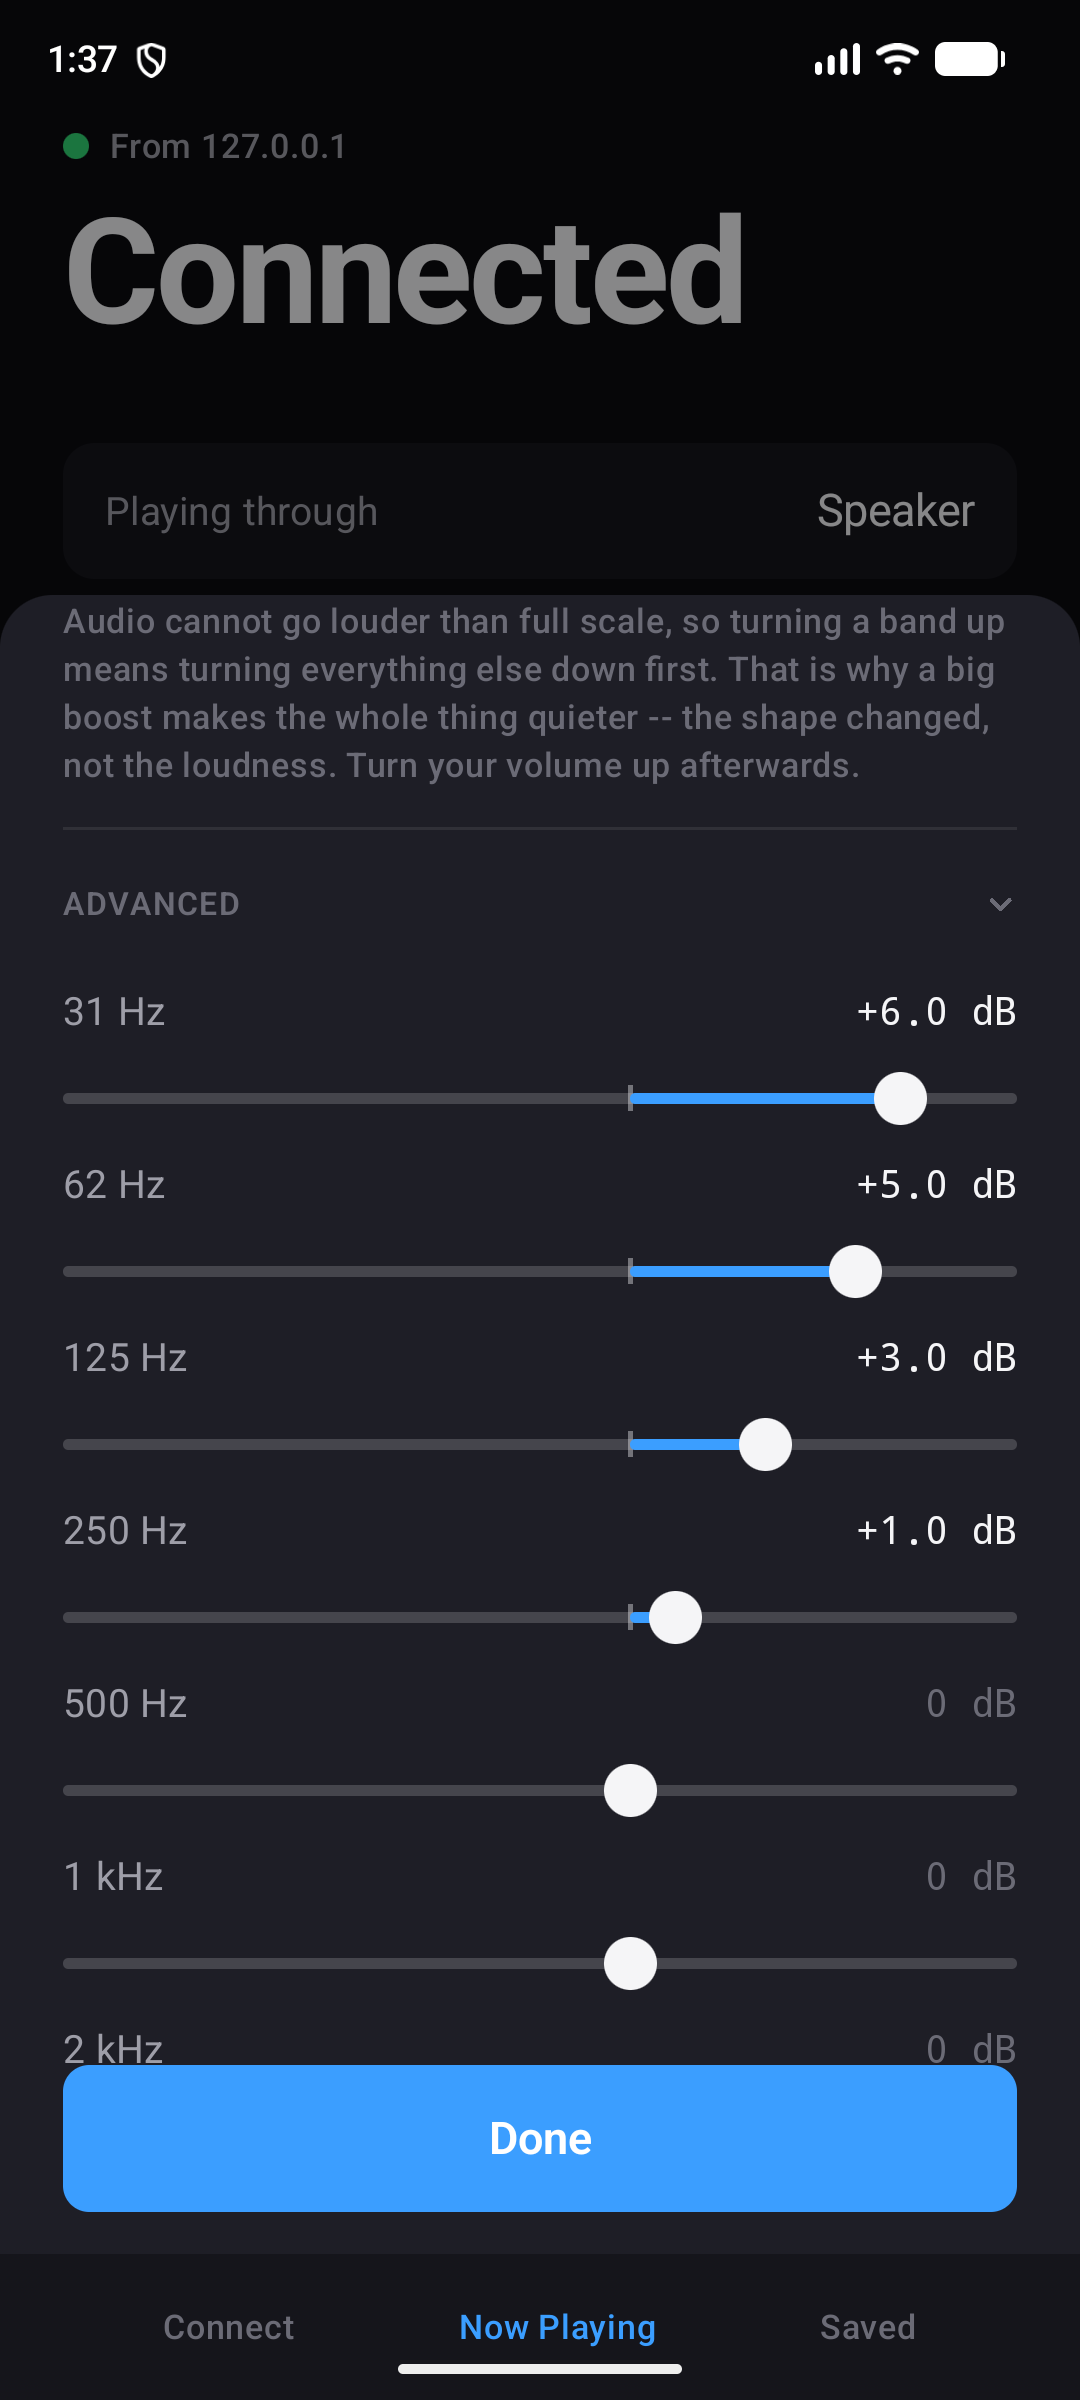
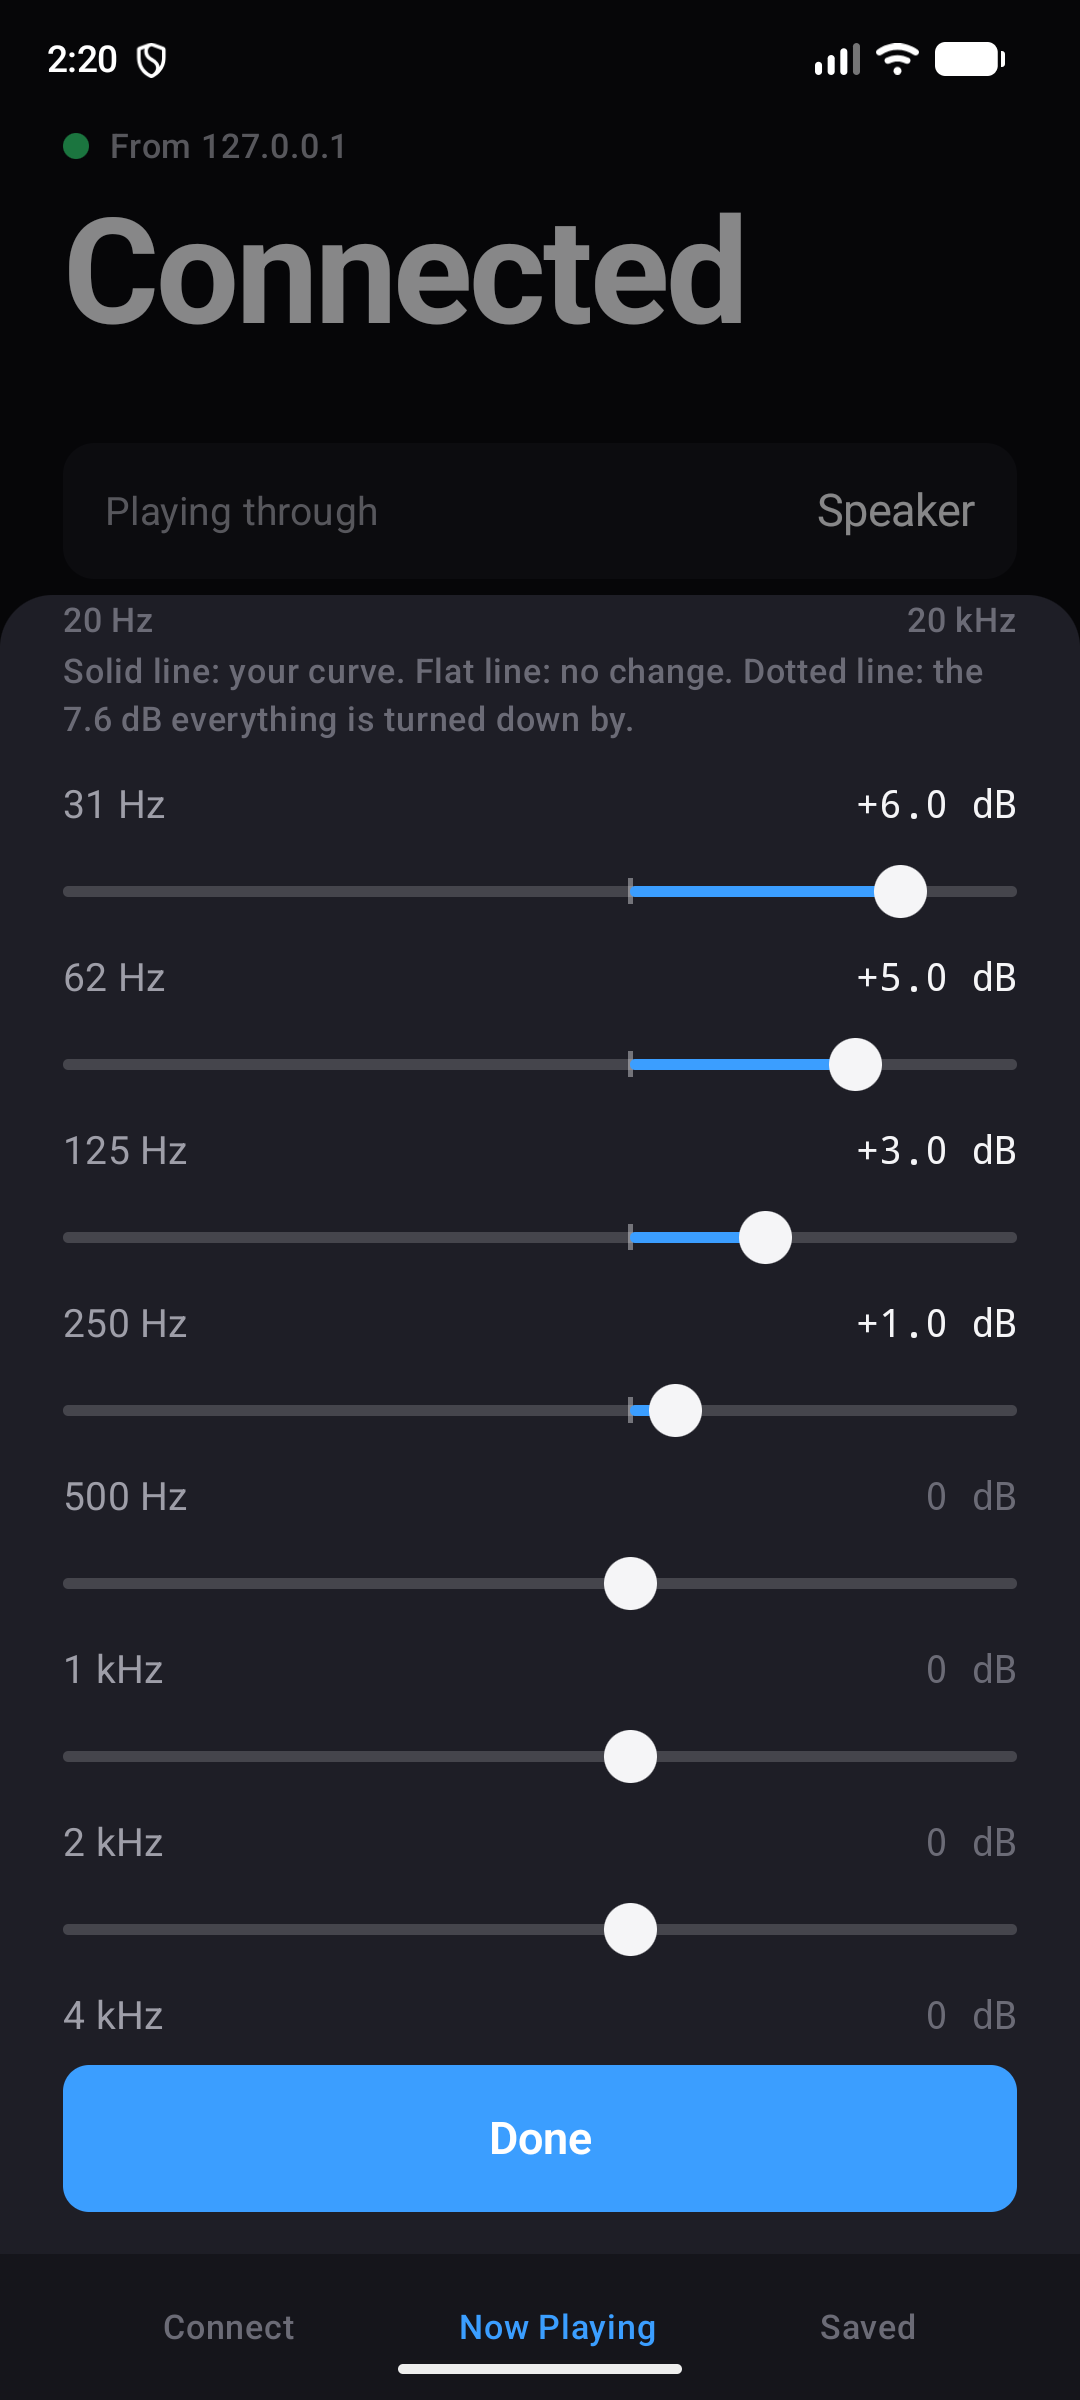
Phase 2a (b): live frequency-response graph
The combined response of all ten bands, drawn in Advanced above the sliders,
from the same FrequencyResponse scan that computes the preamp and the loudness
match. No FFT and no analysis of the audio: this draws what the filters are
set to do, not what the music is doing, and those are different claims.

ONE MAGNITUDE IMPLEMENTATION, THREE READERS. peakGainDb, weightedGainDb and
the new curveDb now all go through a single private `scan` that builds the
coefficients and walks the log-spaced grid. Before this there were two copies
of that loop and the graph would have made a third. Three copies eventually
disagree, and a graph that disagrees with the preamp is invisible until
somebody's ears find it. The refactor is covered by the existing 91 tests
passing unchanged, which is the evidence it is equivalent.

What is drawn: the curve in accent, a solid baseline at 0 dB, three unlabelled
decade gridlines to say the axis is logarithmic, and a dashed warn-coloured
line at the preamp. That last one matters -- without it the graph shows a
curve rising confidently above zero while the thing you actually hear is that
whole shape pulled down below it, which is the exact misunderstanding the
headroom note exists to prevent.

ACCESSIBILITY. A Canvas is an empty rectangle to a screen reader, so the graph
carries a description of the SHAPE rather than ten numbers read aloud:
"Response graph: boosted at 31, 62 and 125 hertz, most at 31 hertz by 6.0
[…]

Changed region(s): [[0.0611, 0.25, 0.9472, 0.875], [0.0917, 0.0, 0.1222, 0.0312], [0.0306, 0.0, 0.0611, 0.0312]]

diff --git a/AndroidReceiver/app/src/main/java/com/wiredtooth/receiver/ui/SoundSheet.kt b/AndroidReceiver/app/src/main/java/com/wiredtooth/receiver/ui/SoundSheet.kt
@@ -1,6 +1,16 @@
 package com.wiredtooth.receiver.ui
 
 import androidx.compose.animation.core.animateFloatAsState
+import androidx.compose.foundation.Canvas
+import androidx.compose.ui.geometry.Offset
+import androidx.compose.ui.graphics.Path
+import androidx.compose.ui.graphics.PathEffect
+import androidx.compose.ui.graphics.StrokeCap
+import androidx.compose.ui.graphics.StrokeJoin
+import androidx.compose.ui.graphics.drawscope.Stroke
+import com.wiredtooth.receiver.dsp.EqBand
+import com.wiredtooth.receiver.dsp.FrequencyResponse
+import kotlin.math.ln
 import androidx.compose.foundation.background
 import androidx.compose.foundation.gestures.detectTapGestures
 import androidx.compose.foundation.layout.Arrangement
@@ -341,7 +351,13 @@ fun SoundSheet(
                     )
 
                     if (advanced) {
-                        Spacer(Modifier.height(Space.s1))
+                        Spacer(Modifier.height(Space.s2))
+                        CurveGraph(
+                            bands = EqSettings.fromGains(state.gains()),
+                            preampDb = preampDb,
+                            sampleRate = sampleRate,
+                        )
+                        Spacer(Modifier.height(Space.s2))
                         for (i in 0 until EqSettings.BAND_COUNT) {
                             val hz = EqSettings.CENTRES_HZ[i]
                             DbSlider(
@@ -449,6 +465,184 @@ fun SoundSheet(
             }
         }
     }
+}
+
+/**
+ * THE CURVE
+ *
+ * The combined response of all ten bands, drawn from the same
+ * [FrequencyResponse] scan that computes the preamp and the loudness match.
+ * One magnitude implementation, three readers -- which is what guarantees the
+ * line on screen is the filter the audio thread is running, and not a second
+ * opinion free to drift away from it unnoticed.
+ *
+ * No FFT, and no analysis of the audio. This draws what the filters are set
+ * to do, not what the music is doing, and those are different claims.
+ *
+ * The faint dashed line is where the preamp sits. Without it the graph would
+ * show a curve rising confidently above zero while the thing you actually
+ * hear is that whole shape pulled down below it -- which is the exact
+ * misunderstanding the headroom note above exists to prevent.
+ */
+@Composable
+private fun CurveGraph(
+    bands: List<EqBand>,
+    preampDb: Float,
+    sampleRate: Int,
+    modifier: Modifier = Modifier,
+) {
+    val p = LocalPalette.current
+    val rate = if (sampleRate > 0) sampleRate else 48000
+
+    val curve = remember(bands, rate) { FrequencyResponse.curveDb(bands, rate, GRAPH_POINTS) }
+    val spoken = remember(bands, preampDb) { describeCurve(bands, preampDb) }
+
+    val minDb = EqSettings.MIN_GAIN_DB.toDouble()
+    val maxDb = SoundState.MAX_BOOST_DB.toDouble()
+    val span = maxDb - minDb
+    val top = FrequencyResponse.topHz(rate)
+    val logSpan = ln(top / FrequencyResponse.MIN_HZ)
+
+    val grid = p.textPrimary.copy(alpha = 0.16f)
+    val zeroLine = p.textPrimary.copy(alpha = 0.34f)
+    val preampColour = p.warn.copy(alpha = 0.55f)
+    val curveColour = p.accent
+
+    Column(modifier.fillMaxWidth()) {
+        Canvas(
+            Modifier
+                .fillMaxWidth()
+                .height(112.dp)
+                .clearAndSetSemantics { contentDescription = spoken },
+        ) {
+            val w = size.width
+            val h = size.height
+
+            fun yFor(db: Double): Float =
+                (h * (maxDb - db.coerceIn(minDb, maxDb)) / span).toFloat()
+
+            fun xFor(hz: Double): Float =
+                (w * ln(hz / FrequencyResponse.MIN_HZ) / logSpan).toFloat()
+
+            // Decade gridlines, unlabelled on purpose: three faint verticals
+            // say "this axis is logarithmic" without adding text that would
+            // compete with the numbers already on this sheet.
+            for (hz in listOf(100.0, 1000.0, 10000.0)) {
+                if (hz < top) {
+                    val x = xFor(hz)
+                    drawLine(grid, Offset(x, 0f), Offset(x, h), strokeWidth = 1.dp.toPx())
+                }
+            }
+
+            val yZero = yFor(0.0)
+            drawLine(zeroLine, Offset(0f, yZero), Offset(w, yZero), strokeWidth = 1.dp.toPx())
+
+            if (preampDb < -0.05f) {
+                val yPre = yFor(preampDb.toDouble())
+                drawLine(
+                    color = preampColour,
+                    start = Offset(0f, yPre),
+                    end = Offset(w, yPre),
+                    strokeWidth = 1.dp.toPx(),
+                    pathEffect = PathEffect.dashPathEffect(
+                        floatArrayOf(6.dp.toPx(), 6.dp.toPx()),
+                    ),
+                )
+            }
+
+            val path = Path()
+            for (k in curve.indices) {
+                val x = w * k / (curve.size - 1).toFloat()
+                val y = yFor(curve[k].toDouble())
+                if (k == 0) path.moveTo(x, y) else path.lineTo(x, y)
+            }
+            drawPath(
+                path = path,
+                color = curveColour,
+                style = Stroke(
+                    width = 2.dp.toPx(),
+                    cap = StrokeCap.Round,
+                    join = StrokeJoin.Round,
+                ),
+            )
+        }
+
+        Spacer(Modifier.height(Space.half))
+
+        // Only frequencies on the frequency axis. An earlier version put
+        // "0 dB" in the middle of this row, where it read as a label for the
+        // mid-frequency gridline rather than for the horizontal baseline.
+        Row(
+            Modifier
+                .fillMaxWidth()
+                .clearAndSetSemantics { },
+            horizontalArrangement = Arrangement.SpaceBetween,
+        ) {
+            WtText("20 Hz", Type.caption, p.textTertiary)
+            WtText("${(top / 1000).roundToInt()} kHz", Type.caption, p.textTertiary)
+        }
+
+        Spacer(Modifier.height(Space.half))
+        WtText(
+            text = if (preampDb < -0.05f) {
+                "Solid line: your curve. Flat line: no change. Dotted line: the " +
+                    "${String.format("%.1f", -preampDb)} dB everything is turned down by."
+            } else {
+                "Solid line: your curve. Flat line: no change."
+            },
+            style = Type.caption,
+            color = p.textTertiary,
+            modifier = Modifier.clearAndSetSemantics { },
+        )
+    }
+}
+
+/** Points the line is drawn from. Smooth at any phone width. */
+private const val GRAPH_POINTS = 160
+
+/**
+ * The curve in words, because a Canvas is an empty rectangle to a screen
+ * reader.
+ *
+ * Describes the SHAPE rather than reading ten numbers out: a list of ten
+ * gains is data, while "boosted at 31 and 62 hertz" is the thing the picture
+ * actually communicates to everybody else.
+ */
+private fun describeCurve(bands: List<EqBand>, preampDb: Float): String {
+    val boosted = bands.filter { it.gainDb >= 0.5f }
+    val cut = bands.filter { it.gainDb <= -0.5f }
+
+    if (boosted.isEmpty() && cut.isEmpty()) {
+        return "Response graph: flat. Nothing is boosted or cut."
+    }
+
+    val parts = mutableListOf<String>()
+    if (boosted.isNotEmpty()) {
+        val most = boosted.maxByOrNull { it.gainDb }!!
+        parts += "boosted at " + listSpoken(boosted.map { spokenHz(it.frequencyHz) }) +
+            ", most at " + spokenHz(most.frequencyHz) +
+            " by " + String.format("%.1f", most.gainDb) + " decibels"
+    }
+    if (cut.isNotEmpty()) {
+        val least = cut.minByOrNull { it.gainDb }!!
+        parts += "cut at " + listSpoken(cut.map { spokenHz(it.frequencyHz) }) +
+            ", most at " + spokenHz(least.frequencyHz) +
+            " by " + String.format("%.1f", -least.gainDb) + " decibels"
+    }
+
+    val tail = if (preampDb < -0.05f) {
+        " The whole curve is then turned down by " +
+            String.format("%.1f", -preampDb) + " decibels to make room."
+    } else {
+        ""
+    }
+    return "Response graph: " + parts.joinToString("; ") + "." + tail
+}
+
+private fun listSpoken(items: List<String>): String = when (items.size) {
+    1 -> items[0]
+    2 -> items[0] + " and " + items[1]
+    else -> items.dropLast(1).joinToString(", ") + " and " + items.last()
 }
 
 /**

diff --git a/AndroidReceiver/app/src/main/java/com/wiredtooth/receiver/dsp/FrequencyResponse.kt b/AndroidReceiver/app/src/main/java/com/wiredtooth/receiver/dsp/FrequencyResponse.kt
@@ -48,8 +48,8 @@ internal object FrequencyResponse {
      */
     const val POINTS = 256
 
-    private const val MIN_HZ = 20.0
-    private const val MAX_HZ = 20000.0
+    const val MIN_HZ = 20.0
+    const val MAX_HZ = 20000.0
 
     /**
      * Extra reduction below the measured peak, in dB.
@@ -68,12 +68,30 @@ internal object FrequencyResponse {
      */
     const val HEADROOM_MARGIN_DB = 0.5
 
-    /** Highest point of the combined response, in dB. Negative if the curve only cuts. */
-    fun peakGainDb(bands: List<EqBand>, sampleRate: Int): Double {
-        if (bands.isEmpty() || sampleRate <= 0) return 0.0
+    /** The highest frequency worth scanning at this rate. */
+    fun topHz(sampleRate: Int): Double = minOf(MAX_HZ, sampleRate * 0.5 * 0.95)
 
-        val top = minOf(MAX_HZ, sampleRate * 0.5 * 0.95)
-        if (top <= MIN_HZ) return 0.0
+    /**
+     * Walks the log-spaced grid, handing each point's frequency and combined
+     * magnitude to [body].
+     *
+     * THE ONLY PLACE THE CASCADE'S MAGNITUDE IS COMPUTED. The preamp, the
+     * loudness match and the on-screen curve all come through here, which is
+     * what guarantees the graph cannot draw one thing while the preamp
+     * assumes another. Three copies of this loop would eventually disagree,
+     * and the disagreement would be invisible until somebody's ears found it.
+     *
+     * Returns false if there is nothing to scan.
+     */
+    private inline fun scan(
+        bands: List<EqBand>,
+        sampleRate: Int,
+        points: Int,
+        body: (index: Int, freqHz: Double, magnitude: Double) -> Unit,
+    ): Boolean {
+        if (bands.isEmpty() || sampleRate <= 0 || points < 2) return false
+        val top = topHz(sampleRate)
+        if (top <= MIN_HZ) return false
 
         val coef = DoubleArray(bands.size * Biquad.COEFFS)
         for (i in bands.indices) {
@@ -87,15 +105,37 @@ internal object FrequencyResponse {
         }
 
         val span = ln(top / MIN_HZ)
-        var peak = 0.0
-        for (k in 0 until POINTS) {
-            val f = MIN_HZ * exp(span * k / (POINTS - 1).toDouble())
+        for (k in 0 until points) {
+            val f = MIN_HZ * exp(span * k / (points - 1).toDouble())
             val w = 2.0 * PI * f / sampleRate
             var mag = 1.0
             for (i in bands.indices) mag *= sectionMagnitude(coef, i * Biquad.COEFFS, w)
-            if (mag > peak) peak = mag
+            body(k, f, mag)
         }
-        return if (peak <= 0.0) 0.0 else 20.0 * log10(peak)
+        return true
+    }
+
+    /** Highest point of the combined response, in dB. Negative if the curve only cuts. */
+    fun peakGainDb(bands: List<EqBand>, sampleRate: Int): Double {
+        var peak = 0.0
+        val ran = scan(bands, sampleRate, POINTS) { _, _, mag -> if (mag > peak) peak = mag }
+        if (!ran || peak <= 0.0) return 0.0
+        return 20.0 * log10(peak)
+    }
+
+    /**
+     * The combined response in dB at [points] log-spaced frequencies from
+     * [MIN_HZ] to [topHz], for drawing.
+     *
+     * The same scan the preamp uses, so the line on screen is the curve the
+     * audio thread is actually running and not a second opinion about it.
+     */
+    fun curveDb(bands: List<EqBand>, sampleRate: Int, points: Int = POINTS): FloatArray {
+        val out = FloatArray(points)
+        scan(bands, sampleRate, points) { k, _, mag ->
+            out[k] = if (mag <= 0.0) -120f else (20.0 * log10(mag)).toFloat()
+        }
+        return out
     }
 
     /**
@@ -167,35 +207,14 @@ internal object FrequencyResponse {
      * for what that costs.
      */
     fun weightedGainDb(bands: List<EqBand>, sampleRate: Int): Double {
-        if (bands.isEmpty() || sampleRate <= 0) return 0.0
-
-        val top = minOf(MAX_HZ, sampleRate * 0.5 * 0.95)
-        if (top <= MIN_HZ) return 0.0
-
-        val coef = DoubleArray(bands.size * Biquad.COEFFS)
-        for (i in bands.indices) {
-            Biquad.designPeaking(
-                coef, i * Biquad.COEFFS,
-                bands[i].frequencyHz.toDouble(),
-                bands[i].q.toDouble(),
-                bands[i].gainDb.toDouble(),
-                sampleRate.toDouble(),
-            )
-        }
-
-        val span = ln(top / MIN_HZ)
         var weightedPower = 0.0
         var weightSum = 0.0
-        for (k in 0 until POINTS) {
-            val f = MIN_HZ * exp(span * k / (POINTS - 1).toDouble())
+        val ran = scan(bands, sampleRate, POINTS) { _, f, mag ->
             val w = 10.0.pow(weightDb(f) / 10.0)
-            val wq = 2.0 * PI * f / sampleRate
-            var mag = 1.0
-            for (i in bands.indices) mag *= sectionMagnitude(coef, i * Biquad.COEFFS, wq)
             weightedPower += w * mag * mag          // power, so magnitude squared
             weightSum += w
         }
-        if (weightSum <= 0.0 || weightedPower <= 0.0) return 0.0
+        if (!ran || weightSum <= 0.0 || weightedPower <= 0.0) return 0.0
         return 10.0 * log10(weightedPower / weightSum)
     }
 

diff --git a/AndroidReceiver/app/src/androidTest/java/com/wiredtooth/receiver/Step5Test.kt b/AndroidReceiver/app/src/androidTest/java/com/wiredtooth/receiver/Step5Test.kt
@@ -307,11 +307,16 @@ class Step5Test {
             shoot(dir, "03-sound-advanced-collapsed-view")
 
             // The sheet is height-capped and scrolls, so expanding Advanced
-            // puts the ten bands below the fold. Scroll them into view, or the
-            // screenshot shows a disclosure that appears to have done nothing.
+            // puts the response graph and the ten bands below the fold.
+            // Scroll in two stages: the graph sits directly under the
+            // disclosure, the bands under that.
             val w = device.displayWidth
             val h = device.displayHeight
-            device.swipe(w / 2, (h * 0.80).toInt(), w / 2, (h * 0.35).toInt(), 20)
+            device.swipe(w / 2, (h * 0.78).toInt(), w / 2, (h * 0.56).toInt(), 20)
+            Thread.sleep(1_000)
+            shoot(dir, "07-sound-curve")
+
+            device.swipe(w / 2, (h * 0.80).toInt(), w / 2, (h * 0.40).toInt(), 20)
             Thread.sleep(1_200)
             shoot(dir, "03-sound-advanced")
 
